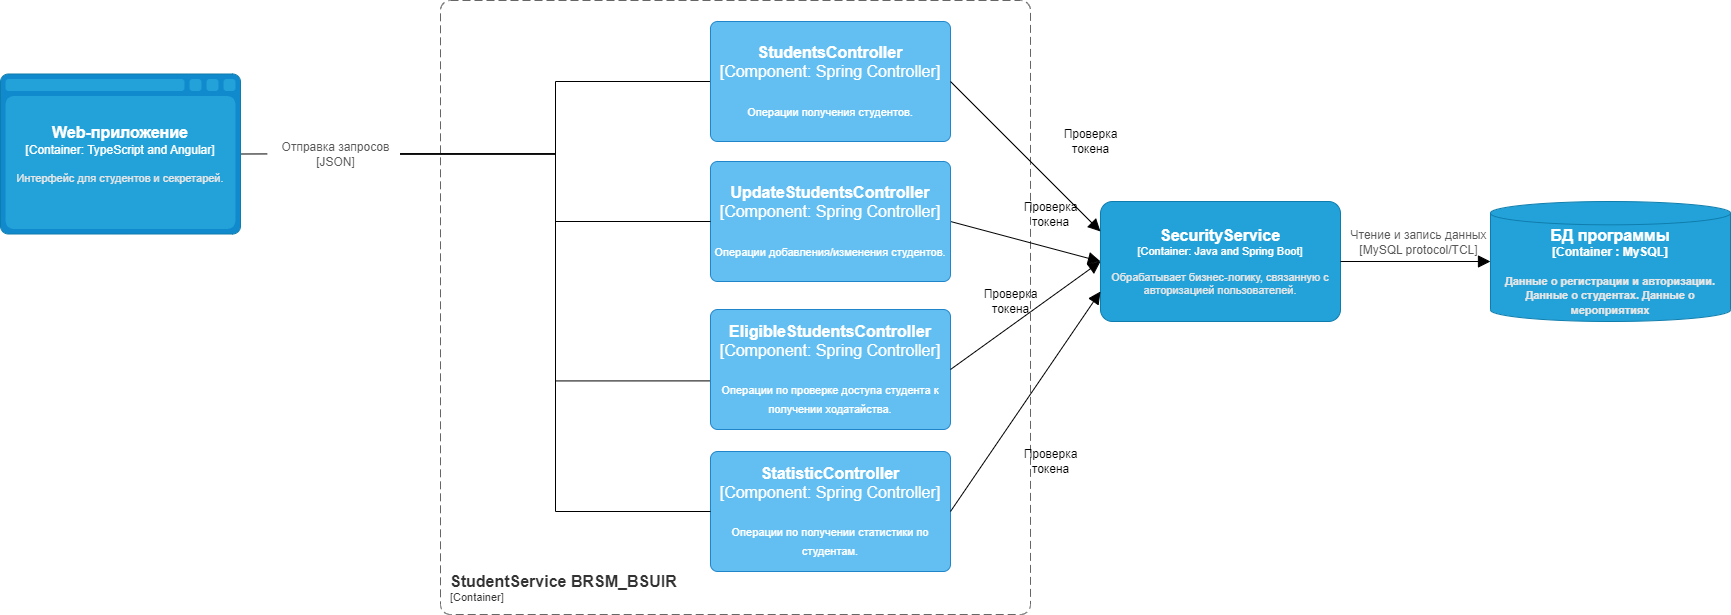
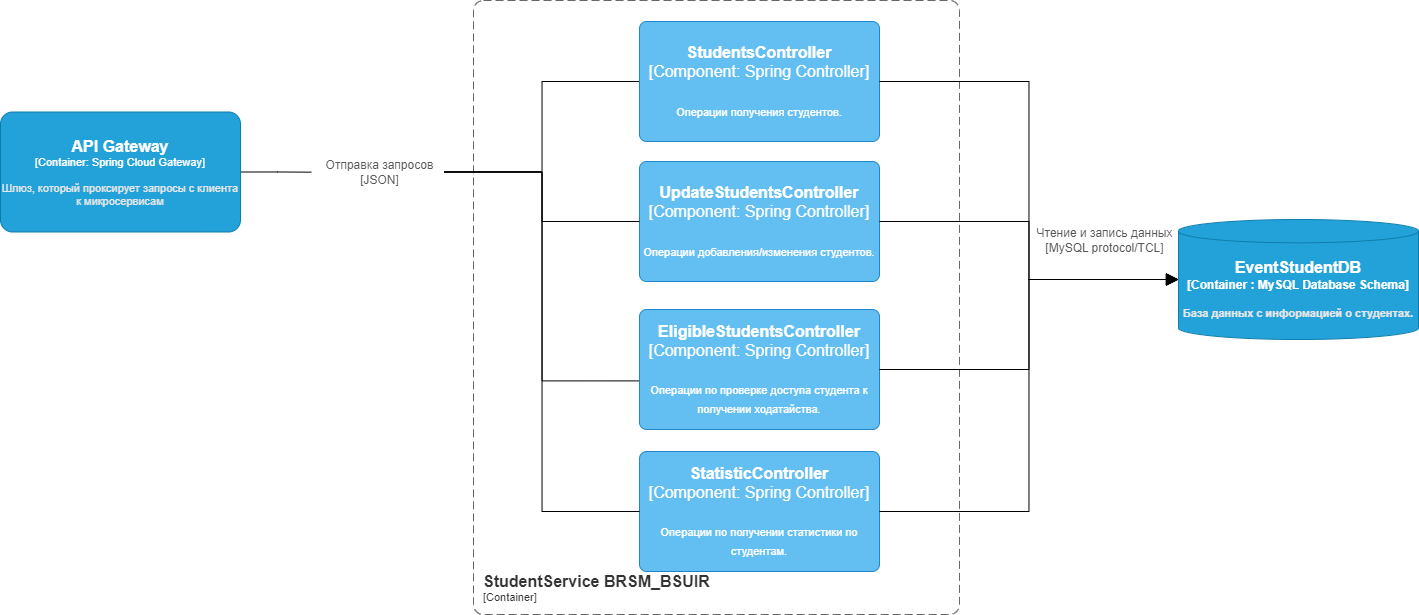
docs: add c4 models info readme

diff --git a/README.md b/README.md
@@ -26,7 +26,7 @@
 4. [Тестирование](#Тестирование)
     1. [Unit-тесты](#Unit-тесты)
     2. [Интеграционные тесты](#Интеграционные_тесты)
-5. [Установка и  запуск](#installation)
+5. [Установка и запуск](#installation)
     1. [Манифесты для сборки docker образов](#Манифесты_для_сборки_docker_образов)
     2. [Манифесты для развертывания k8s кластера](#Манифесты_для_развертывания_k8s_кластера)
 6. [Лицензия](#Лицензия)
@@ -37,11 +37,32 @@
 
 ### C4-модель
 
-Контейнерный уровень архитектуры ПС представлен на рисунке ниже.
+#### Контейнерный уровень архитектуры ПС
 
 ![C4-Model-контейнерный.png](assets%2FC4-Model-%D0%BA%D0%BE%D0%BD%D1%82%D0%B5%D0%B9%D0%BD%D0%B5%D1%80%D0%BD%D1%8B%D0%B9.png)
 
+Программа будет содержать одну клиентскую часть и 5 микросервисов:
+1. StudentService предназначен для обработки бизнес-логики, связанной со студентами. 
+2. EventService будет обрабатывать бизнес-логику, связанную с мероприятиями. 
+3. DataService будет обрабатывать бизнес-логику, связанную с импортом и экспортом данных в системе. 
+4. SecurityService будет содержать логику авторизации, а также будет обрабатывать логику, связанную с данными пользователей. 
+5. DocumentService будет обрабатывать бизнес-логику, связанную с освобождениями, ходатайствами и докладными. 
+
+Также будет создано три базы данных: EventStudentDB, UserDB, DocumentDB. 
+
+Для взаимодействия клиента с сервером будет создан специальный шлюз API Gateway. Он будет проксировать запрос к нужному сервису, а также будет проверять токен и безопасность.
+
+#### Компонентный уровень архитектуры ПС
+
 ![C4-Model-компонентный.png](assets%2FC4-Model-%D0%BA%D0%BE%D0%BC%D0%BF%D0%BE%D0%BD%D0%B5%D0%BD%D1%82%D0%BD%D1%8B%D0%B9.png)
+
+Компонентный уровень программного средства представлен на примере микросервиса StudentService. API Gateway будет отправлять запросы на определенные сервисы, которые в свою очередь будут отлавливать их в контроллерах и далее через сервисы и репозитории запросы будут идти в БД.
+
+#### Диаграмма классов и интерфейсов
+
+![classes_interfaces.png](assets/classes_interfaces.png)
+
+Клиентская часть будет отправлять запрос на сервер, далее StudentController использует дто StudentDTO и EventDTO. Запрос из контроллера будет идти в интерфейс StudentService. Далее обрабатывать этот запрос будет StudentServiceImpl – это реализация интерфейса StudentService. Он будет выполнять различные расчеты, и отправлять запрос в репозиторий, который в свою очередь отправит запрос в БД.
 
 ### Схема данных
 
@@ -58,7 +79,6 @@
 ### User-flow диаграммы
 
 Описание переходов между части ПС для всех ролей из диаграммы ВИ (название ролей должны совпадать с тем, что указано на c4-модели и диаграмме вариантов использования)
-
 
 ---
 
@@ -94,7 +114,7 @@
 
 ---
 
-## **Установка и  запуск**
+## **Установка и запуск**
 
 ### Манифесты для сборки docker образов
 
